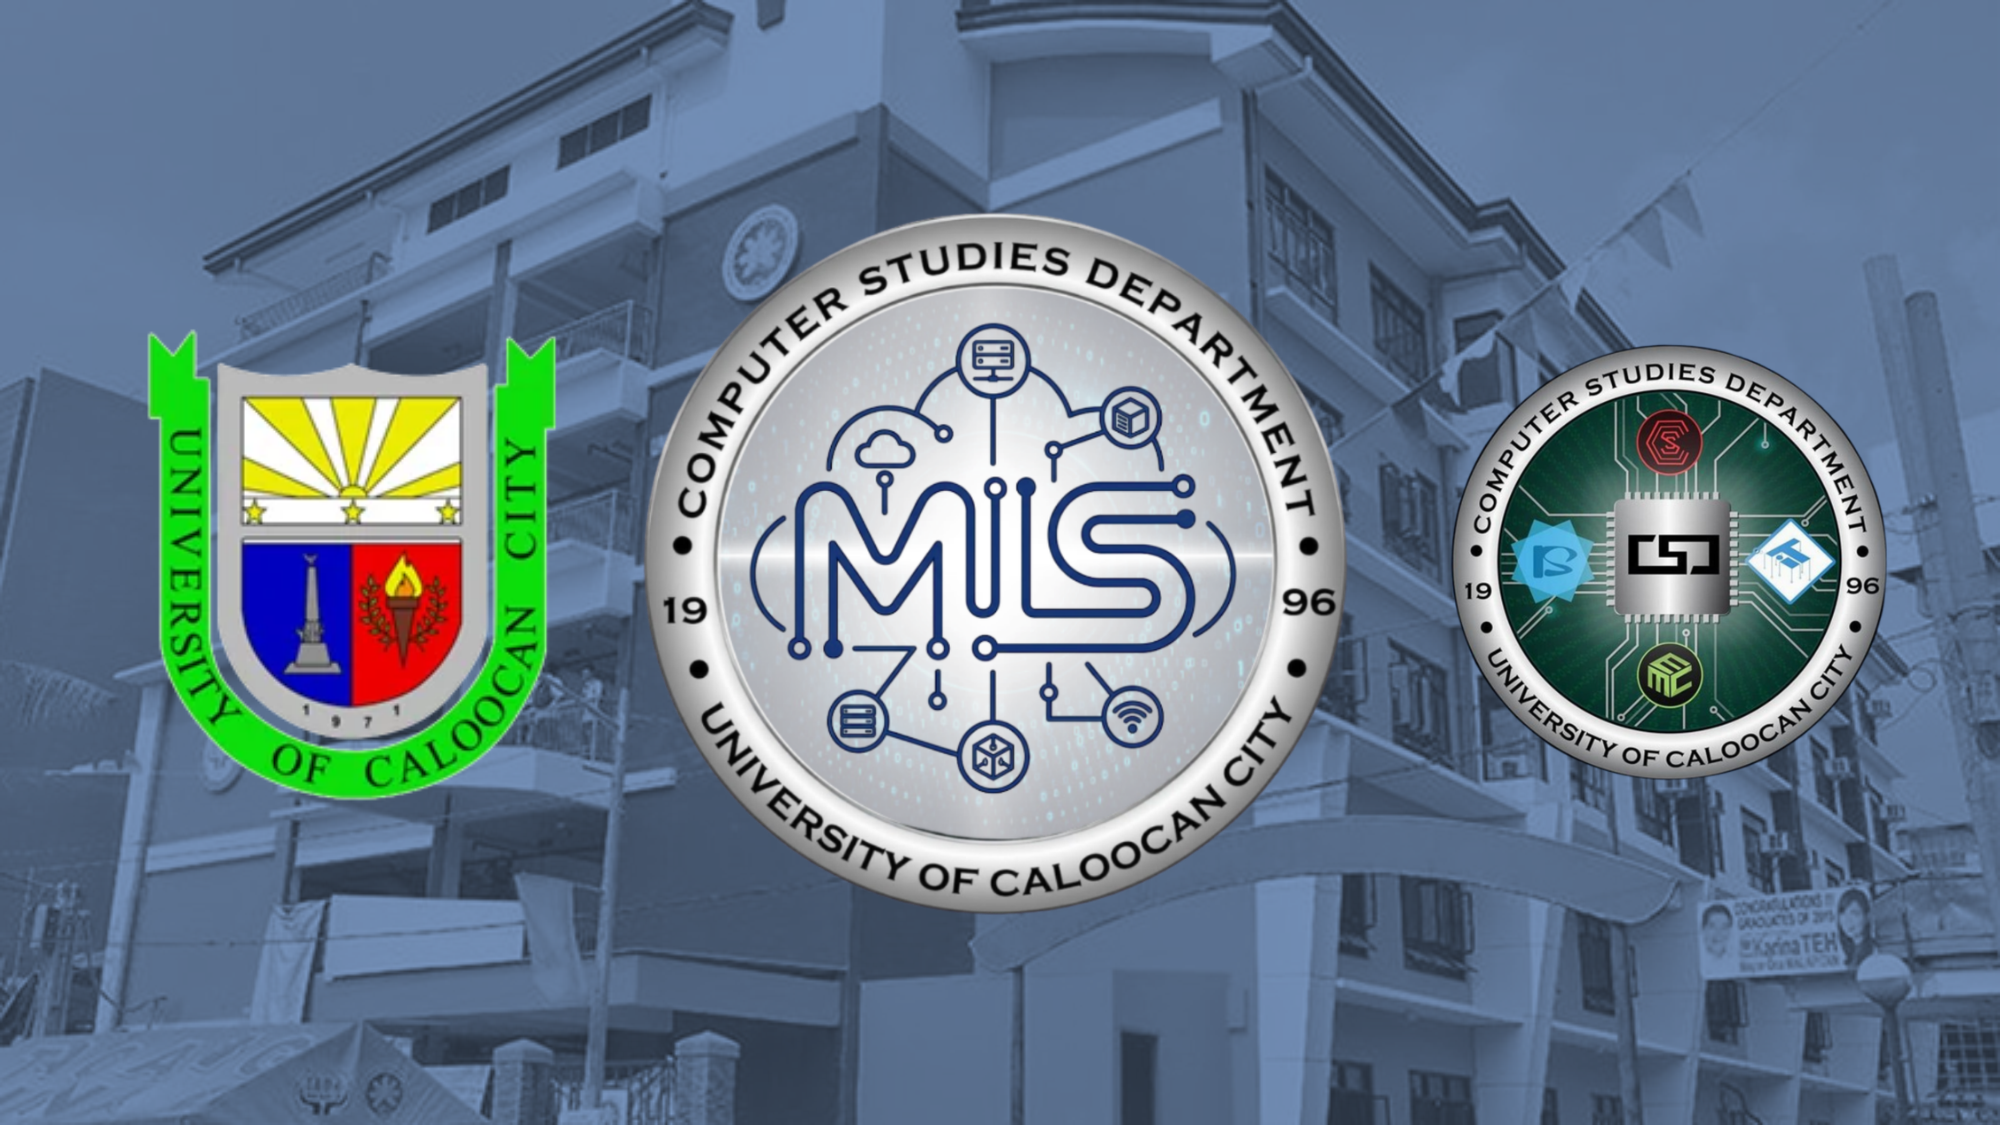
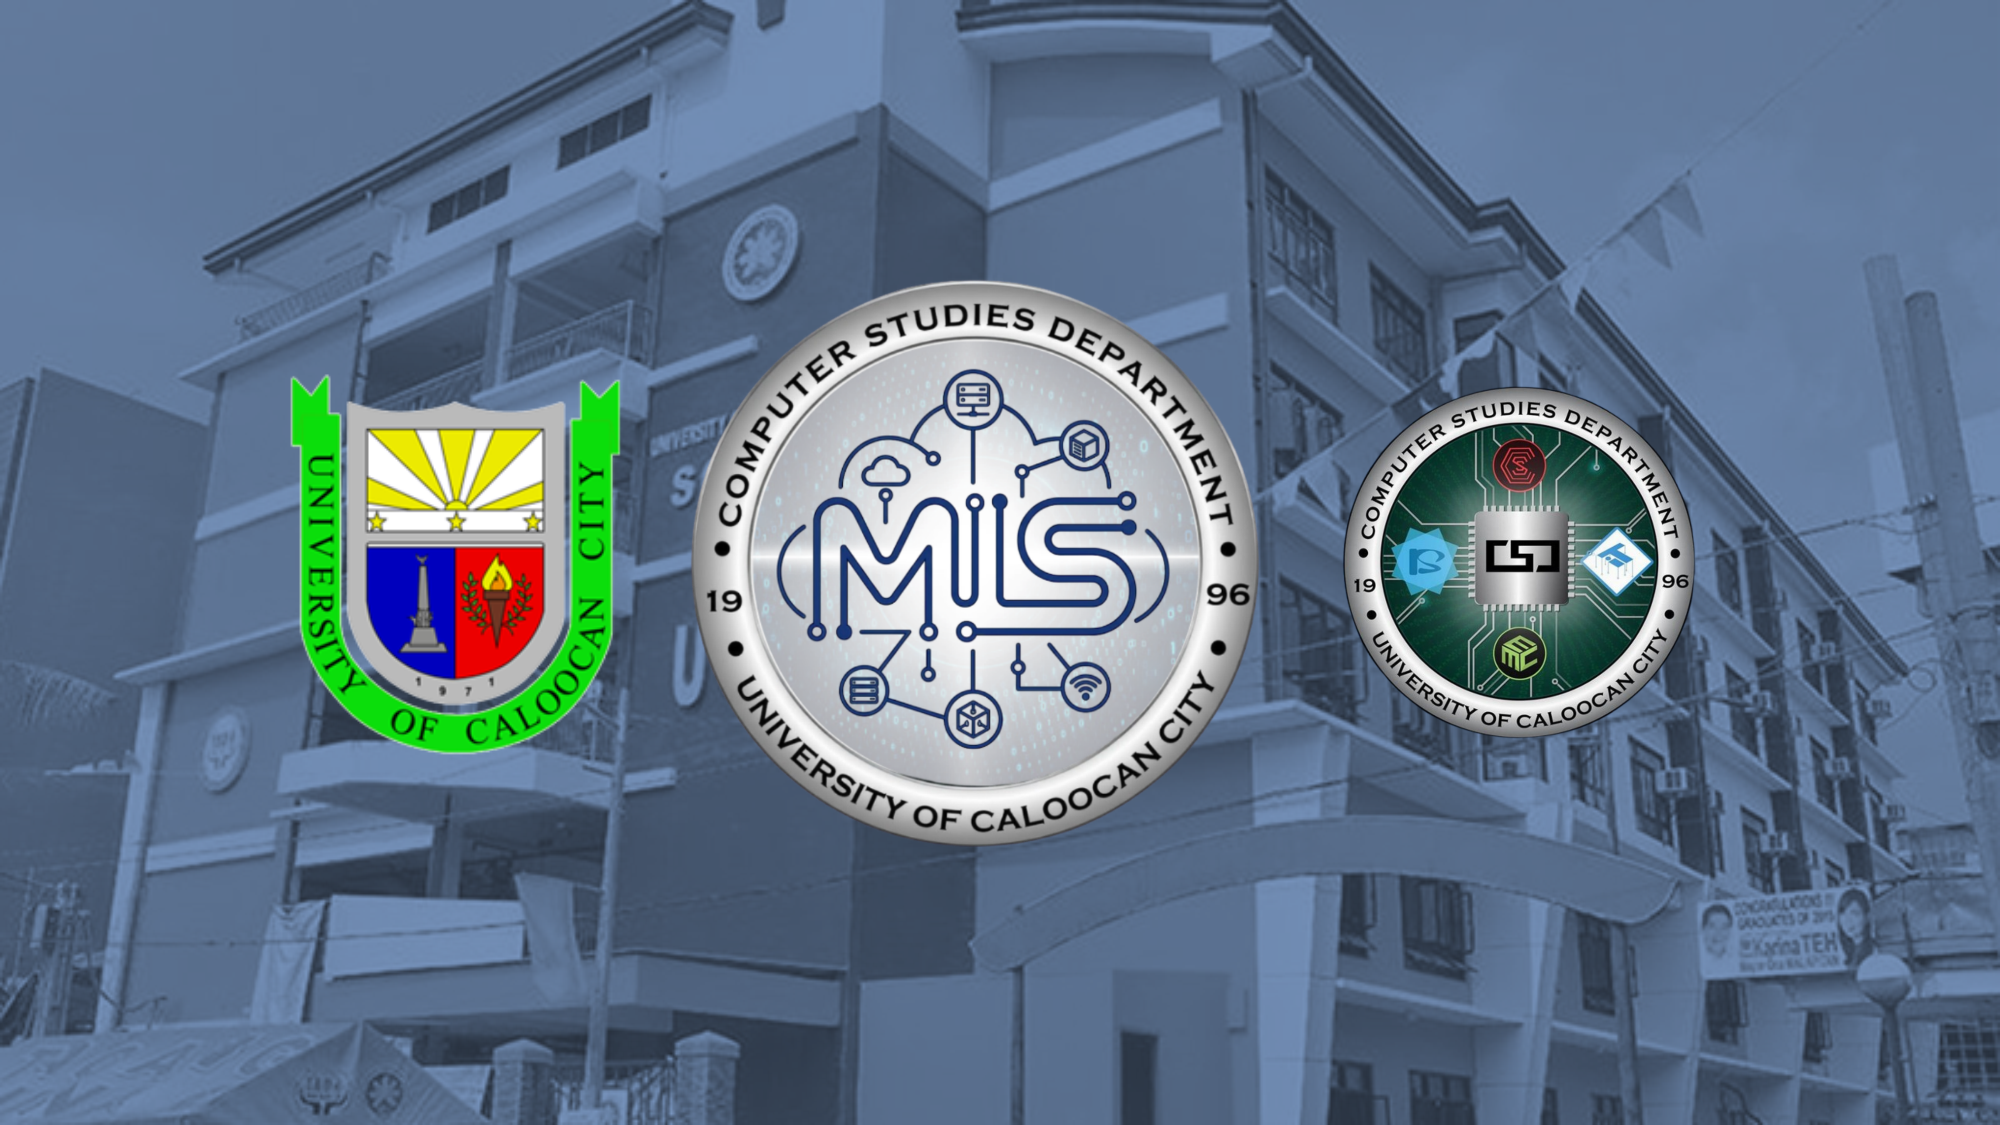
UPDATED fixed bg

Changed region(s): [[0.062, 0.1867, 0.961, 0.8089]]

diff --git a/assets/css/home-ui.css b/assets/css/home-ui.css
@@ -210,13 +210,27 @@ ul {
     padding: 60px 5%;
     position: relative;
     overflow: hidden;
-    background: linear-gradient(rgba(11, 31, 58, 0.85), rgba(11, 31, 58, 0.9)), url('../images/wprev.webp') center/cover no-repeat;
-    animation: hero-bg-zoom 20s ease infinite alternate;
+    background-color: var(--navy);
 }
 
-@keyframes hero-bg-zoom {
-    from { background-size: 100% 100%; }
-    to { background-size: 110% 110%; }
+.hero-background {
+    position: absolute;
+    inset: 0;
+    background: linear-gradient(rgba(11, 31, 58, 0.85), rgba(11, 31, 58, 0.9)), url('../images/wprev.webp') center/cover no-repeat;
+    animation: hero-background-zoom 20s ease-in-out infinite alternate;
+    transform-origin: center;
+    z-index: 0;
+}
+
+@keyframes hero-background-zoom {
+    from { transform: scale(1); }
+    to { transform: scale(1.50); }
+}
+
+@media (prefers-reduced-motion: reduce) {
+    .hero-background {
+        animation: none;
+    }
 }
 
 .hero::after {

diff --git a/index.html b/index.html
@@ -18,7 +18,7 @@
   <link
     href="https://fonts.googleapis.com/css2?family=Sora:wght@300;400;600;700;800&family=DM+Sans:wght@400;500;600;700&display=swap"
     rel="stylesheet">
-  <link rel="stylesheet" href="assets/css/home-ui.css">
+  <link rel="stylesheet" href="assets/css/home-ui.css?v=20261018-2">
 </head>
 
 <body>
@@ -68,6 +68,7 @@
 
     <div class="contents">
       <div class="hero" id="home">
+        <div class="hero-background" aria-hidden="true"></div>
         <div class="hero-inner">
           <div class="hero-badge reveal-hero-1">
             <span class="pulse"></span> Equipment Borrowing System - UCC MIS
